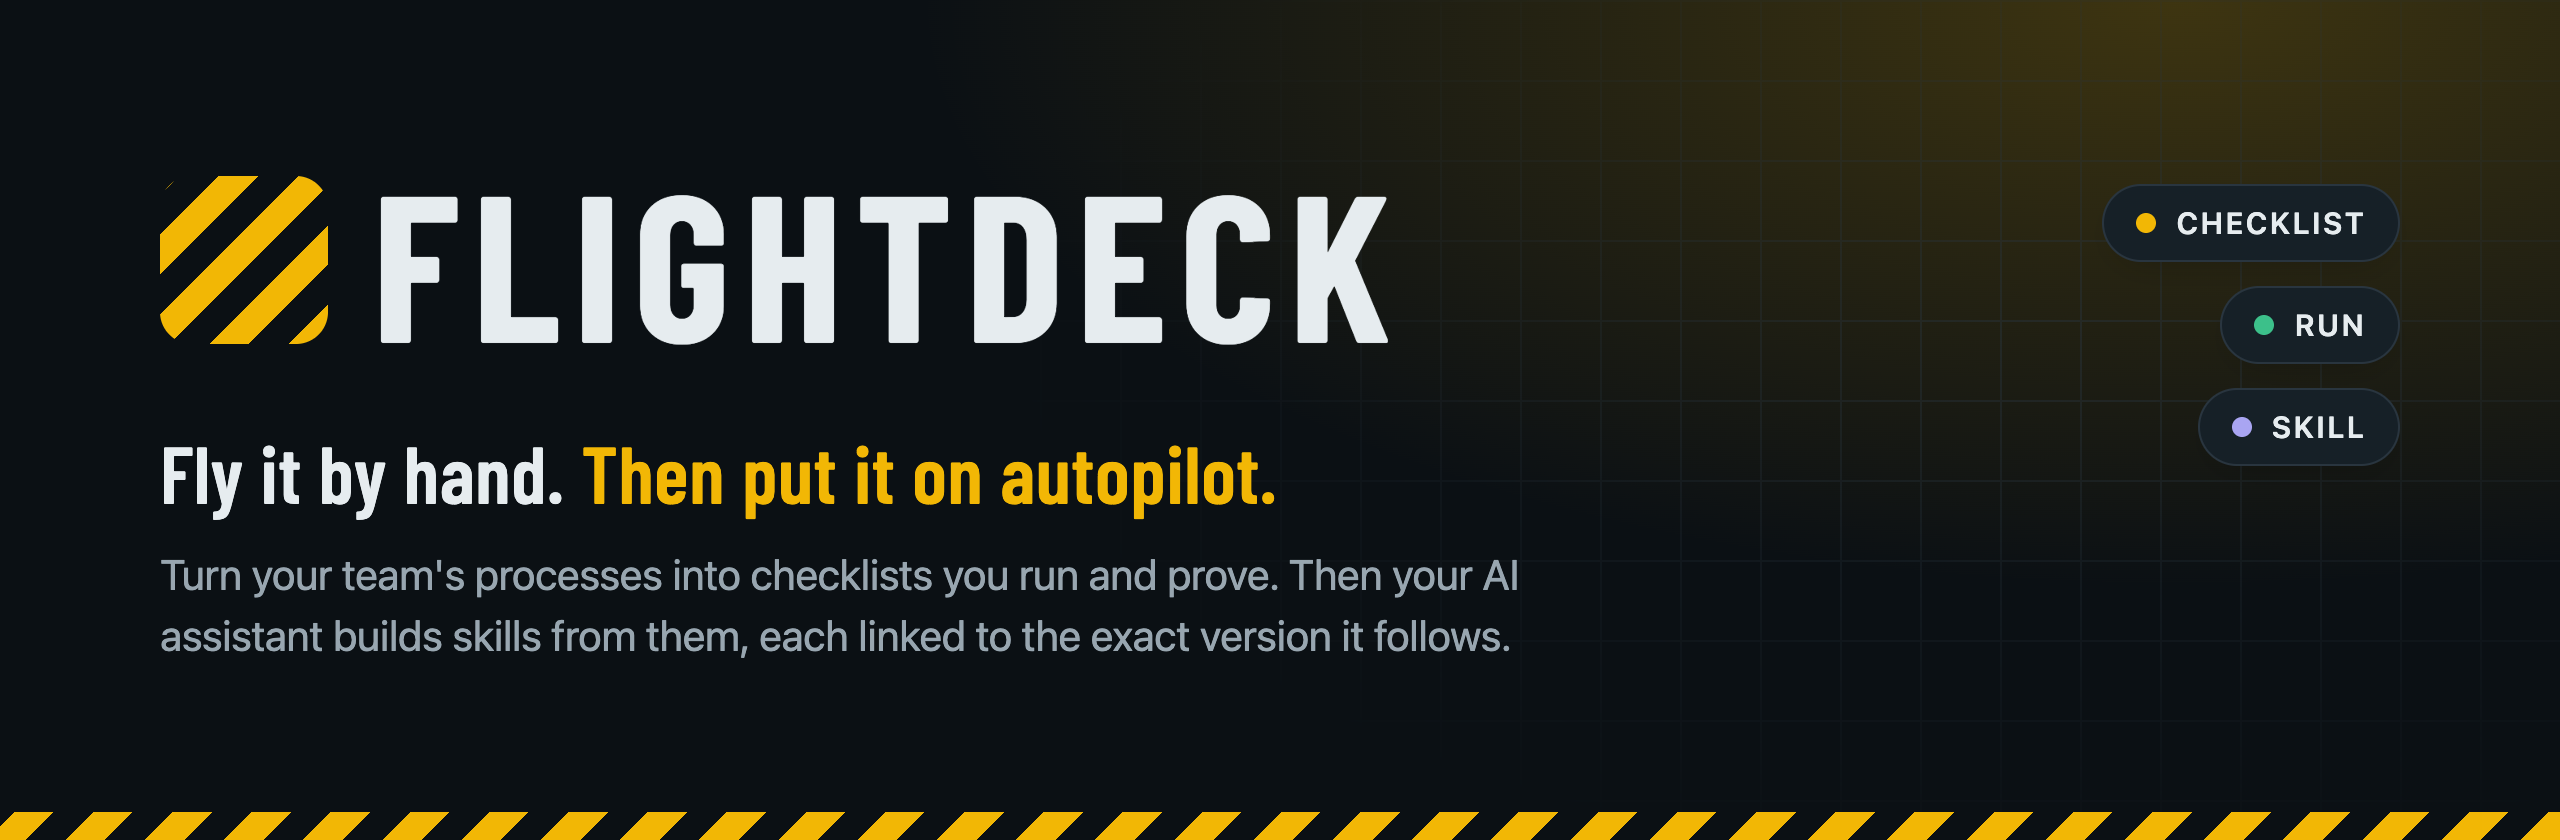
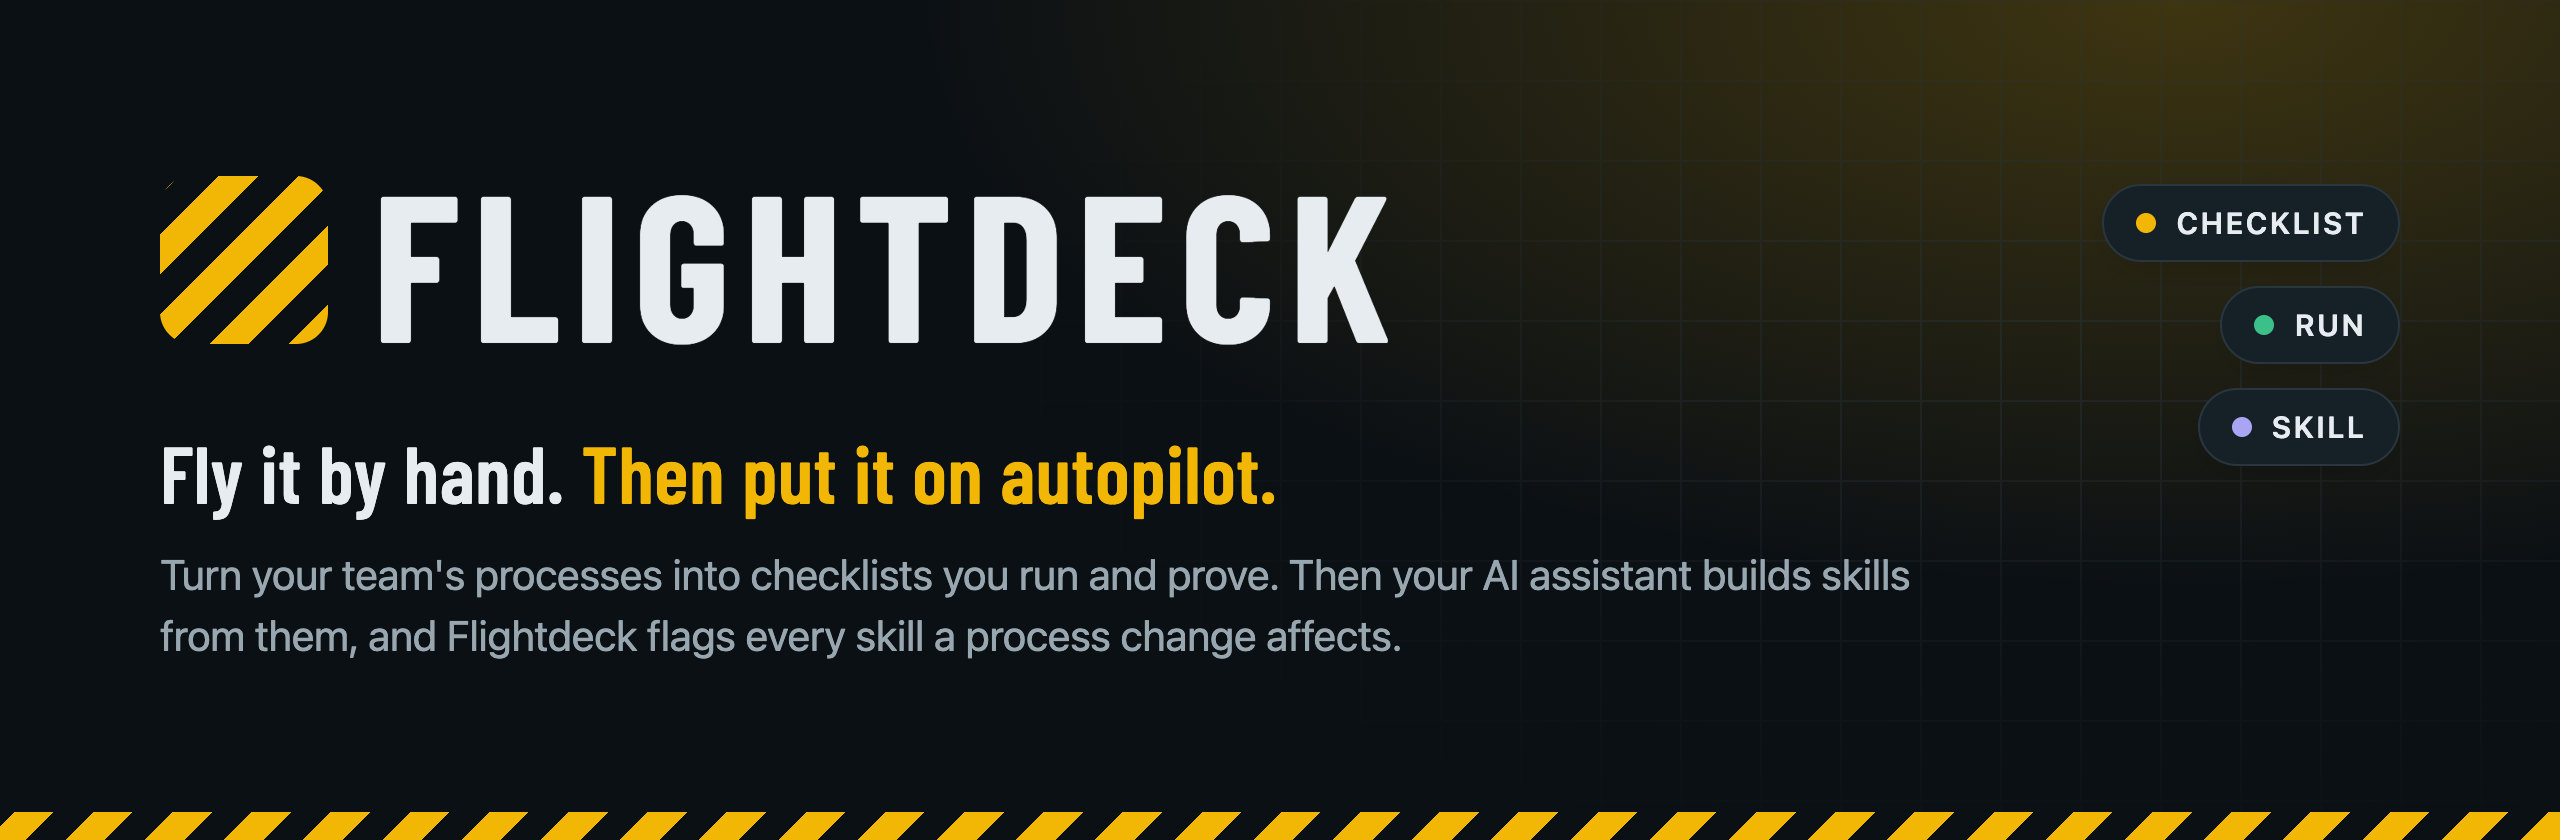
docs: lead with skills tied to the process they automate
A new section after the hero shows a process change flagging the exact skills it affects, with the real update brief; the banner subline says it too.

Changed region(s): [[0.0625, 0.7429, 0.5938, 0.7738], [0.5938, 0.65, 0.75, 0.7119]]

diff --git a/README.md b/README.md
@@ -24,6 +24,22 @@ It's **one HTML file**. No server, no sign-in, no network, no AI inside. It work
 
 <br>
 
+## Your skills, tied to the process they automate
+
+Teams are turning runbooks into AI skills fast. Then the process changes, and nobody can say which skills are now wrong.
+
+Flightdeck keeps that link, version by version:
+
+- **Built from proof.** A skill starts from a version the team has actually run clean, and its owner signed off.
+- **Traced to the step.** Every skill names its source, the exact process version it follows, and which steps it covers.
+- **Breakage flagged.** Publish a new version and Flightdeck shows exactly which skills it affects, step by step, and which it doesn't.
+- **Fixes, briefed.** One click copies the exact before and after for your AI assistant to update the skill.
+- **Evidence kept.** Every run is recorded: who did what, what was skipped, and where people went off-script.
+
+<p align="center"><a href="https://raw.githubusercontent.com/troylar/flightdeck/main/docs/images/skills-traced-light.png" title="Open full size"><picture><source media="(prefers-color-scheme: dark)" srcset="https://raw.githubusercontent.com/troylar/flightdeck/main/docs/images/skills-traced-dark.png"><img src="https://raw.githubusercontent.com/troylar/flightdeck/main/docs/images/skills-traced-light.png" alt="A process goes from v1 to v2 and one step changes. Flightdeck checks every skill built from it: release-deploy and release-notes need an update, pr-opener is current. The update brief for release-deploy shows the exact before and after for your AI assistant." width="1000"></picture></a></p>
+
+<br>
+
 ## The loop
 
 <p align="center"><a href="https://raw.githubusercontent.com/troylar/flightdeck/main/docs/images/loop-light.png" title="Open full size"><picture><source media="(prefers-color-scheme: dark)" srcset="https://raw.githubusercontent.com/troylar/flightdeck/main/docs/images/loop-dark.png"><img src="https://raw.githubusercontent.com/troylar/flightdeck/main/docs/images/loop-light.png" alt="Write a checklist, publish a frozen version, run it, prove it with three clean runs and the owner sign-off, then your AI assistant builds the skill from the brief. A step done differently becomes a suggested checklist change; a new version that changes a covered step marks the skill as needing an update." width="1000"></picture></a></p>
